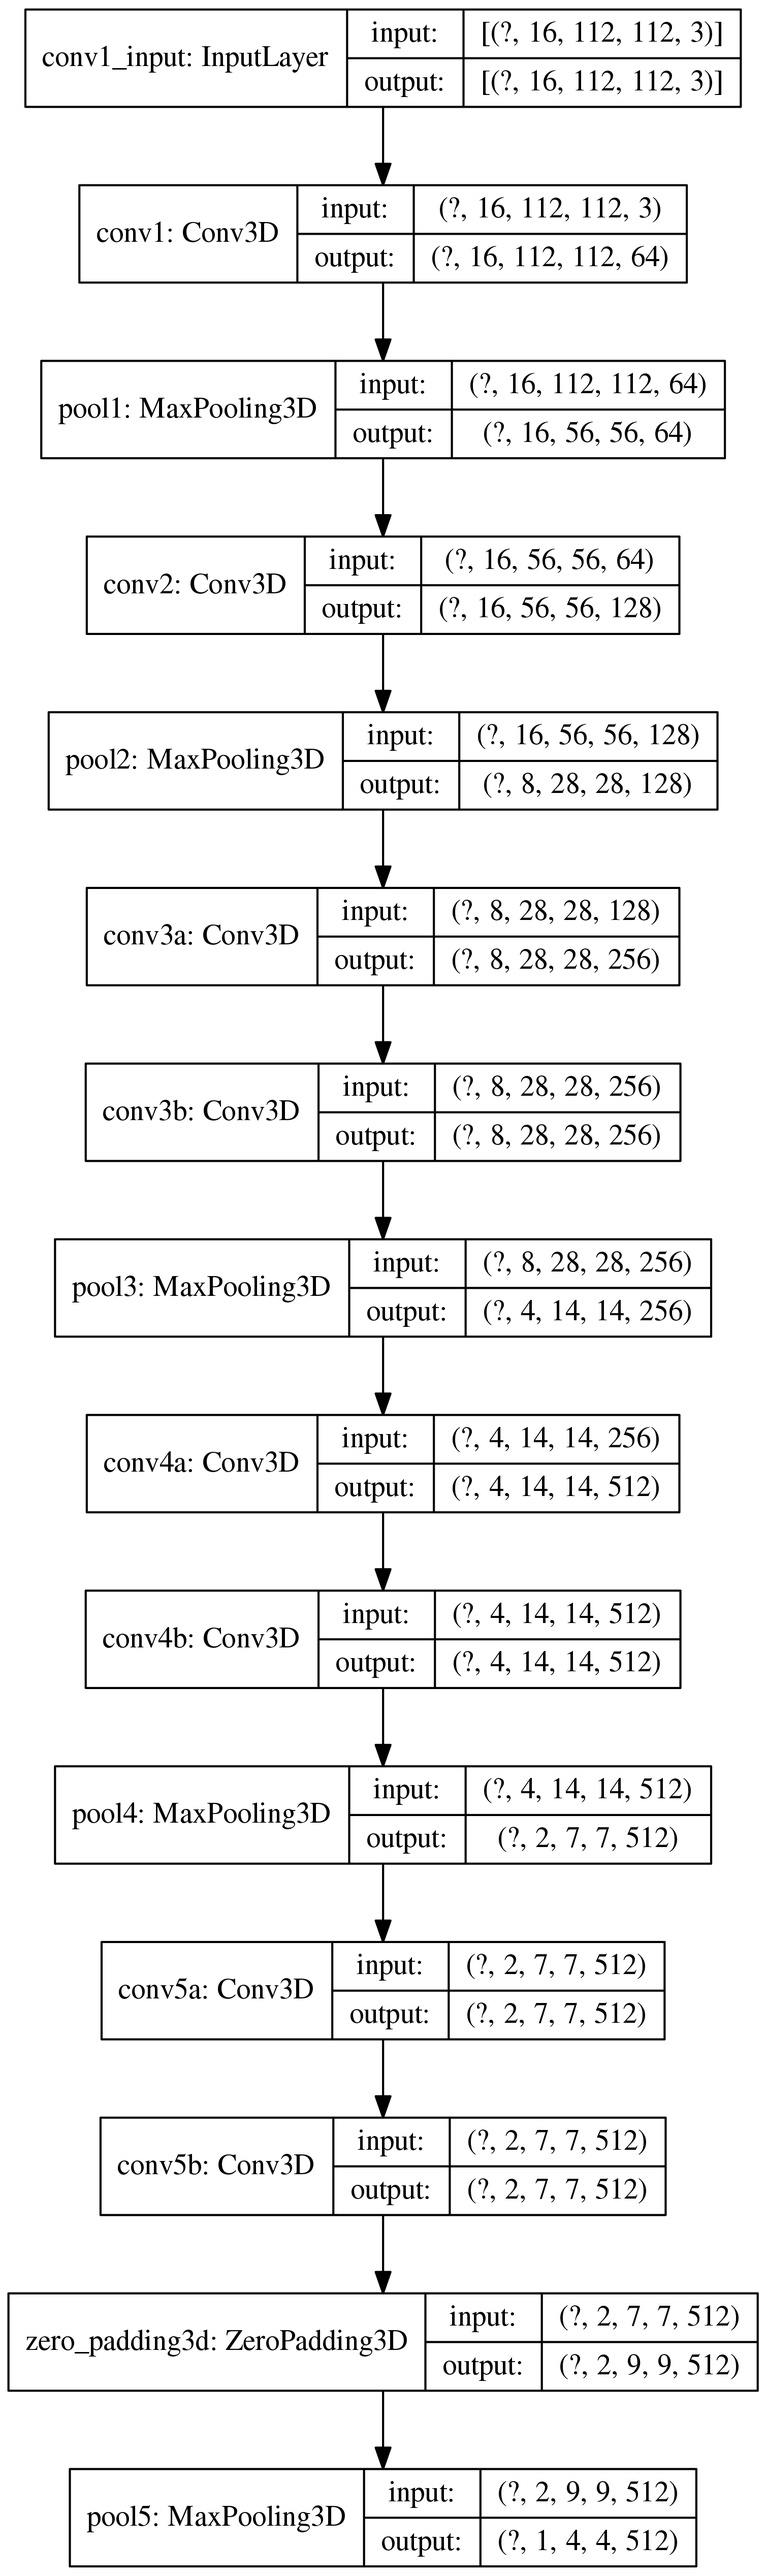
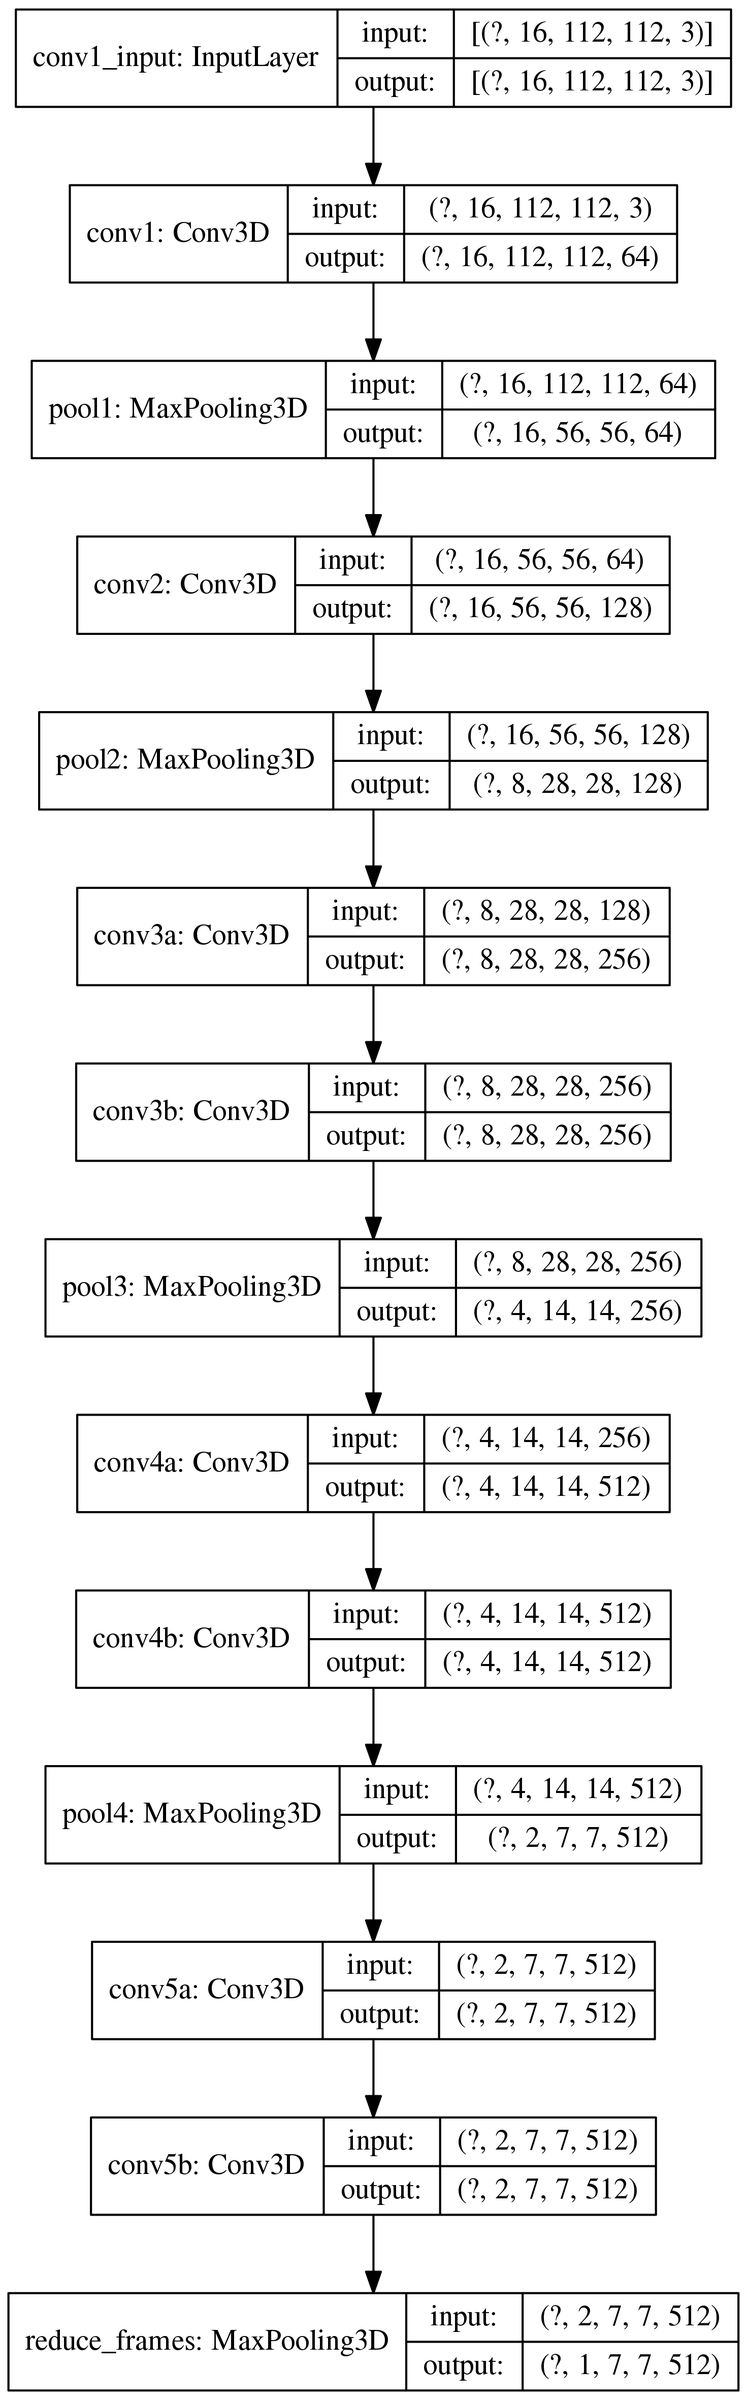
Added more models

Changed region(s): [[0.0, 0.0, 1.0, 1.0]]

diff --git a/anomaly_detector/feature_extractor/featureExtractorVGG16_Block3.py b/anomaly_detector/feature_extractor/featureExtractorVGG16_Block3.py
@@ -1,0 +1,43 @@
+import tensorflow as tf
+from tensorflow.keras.applications.vgg16 import preprocess_input
+
+from featureExtractorBase import FeatureExtractorBase
+
+class FeatureExtractorVGG16_Block3(FeatureExtractorBase):
+    """Feature extractor based on VGG16 at Bock 3 without the last max pooling layer (trained on ImageNet).
+    Generates 56x56x512 feature vectors per image
+    """
+
+    def __init__(self):
+        FeatureExtractorBase.__init__(self)
+
+        self.IMG_SIZE = 224 # All images will be resized to 224x224
+
+        # Create the base model from the pre-trained model MobileNet V2
+        model_full = tf.keras.applications.VGG16(input_shape=(self.IMG_SIZE, self.IMG_SIZE, 3),
+                                                 include_top=False,
+                                                 weights="imagenet")
+        model_full.trainable = False
+
+        self.model = tf.keras.Model(model_full.inputs, model_full.get_layer("block3_conv3").output)   
+        self.model.trainable = False
+    
+    def format_image(self, image):
+        """Resize the images to a fixed input size, and
+        rescale the input channels to a range of [-1, 1].
+        (According to https://www.tensorflow.org/tutorials/images/transfer_learning)
+        """
+        image = tf.cast(image, tf.float32)
+        #       \/ does the same #  image = (image / 127.5) - 1
+        image = preprocess_input(image) # https://github.com/keras-team/keras-applications/blob/master/keras_applications/imagenet_utils.py#L152
+        image = tf.image.resize(image, (self.IMG_SIZE, self.IMG_SIZE))
+        return image
+
+    def extract_batch(self, batch):
+        return self.model(batch)
+
+# Only for tests
+if __name__ == "__main__":
+    extractor = FeatureExtractorVGG16_Block3()
+    extractor.plot_model(extractor.model)
+    extractor.extract_files()

diff --git a/anomaly_detector/feature_extractor/featureExtractorVGG16_Block4.py b/anomaly_detector/feature_extractor/featureExtractorVGG16_Block4.py
@@ -1,0 +1,43 @@
+import tensorflow as tf
+from tensorflow.keras.applications.vgg16 import preprocess_input
+
+from featureExtractorBase import FeatureExtractorBase
+
+class FeatureExtractorVGG16_Block4(FeatureExtractorBase):
+    """Feature extractor based on VGG16 at Bock 4 without the last max pooling layer (trained on ImageNet).
+    Generates 28x28x512 feature vectors per image
+    """
+
+    def __init__(self):
+        FeatureExtractorBase.__init__(self)
+
+        self.IMG_SIZE = 224 # All images will be resized to 224x224
+
+        # Create the base model from the pre-trained model MobileNet V2
+        model_full = tf.keras.applications.VGG16(input_shape=(self.IMG_SIZE, self.IMG_SIZE, 3),
+                                                 include_top=False,
+                                                 weights="imagenet")
+        model_full.trainable = False
+
+        self.model = tf.keras.Model(model_full.inputs, model_full.get_layer("block4_conv3").output)   
+        self.model.trainable = False
+    
+    def format_image(self, image):
+        """Resize the images to a fixed input size, and
+        rescale the input channels to a range of [-1, 1].
+        (According to https://www.tensorflow.org/tutorials/images/transfer_learning)
+        """
+        image = tf.cast(image, tf.float32)
+        #       \/ does the same #  image = (image / 127.5) - 1
+        image = preprocess_input(image) # https://github.com/keras-team/keras-applications/blob/master/keras_applications/imagenet_utils.py#L152
+        image = tf.image.resize(image, (self.IMG_SIZE, self.IMG_SIZE))
+        return image
+
+    def extract_batch(self, batch):
+        return self.model(batch)
+
+# Only for tests
+if __name__ == "__main__":
+    extractor = FeatureExtractorVGG16_Block4()
+    extractor.plot_model(extractor.model)
+    extractor.extract_files()

diff --git a/anomaly_detector/feature_extractor/featureExtractorVGG16.py b/anomaly_detector/feature_extractor/featureExtractorVGG16.py
@@ -1,0 +1,43 @@
+import tensorflow as tf
+from tensorflow.keras.applications.vgg16 import preprocess_input
+
+from featureExtractorBase import FeatureExtractorBase
+
+class FeatureExtractorVGG16(FeatureExtractorBase):
+    """Feature extractor based on VGG16 without the last max pooling layer (trained on ImageNet).
+    Generates 14x14x512 feature vectors per image
+    """
+
+    def __init__(self):
+        FeatureExtractorBase.__init__(self)
+
+        self.IMG_SIZE = 224 # All images will be resized to 224x224
+
+        # Create the base model from the pre-trained model MobileNet V2
+        model_full = tf.keras.applications.VGG16(input_shape=(self.IMG_SIZE, self.IMG_SIZE, 3),
+                                                 include_top=False,
+                                                 weights="imagenet")
+        model_full.trainable = False
+
+        self.model = tf.keras.Model(model_full.inputs, model_full.get_layer("block5_conv3").output)   
+        self.model.trainable = False
+    
+    def format_image(self, image):
+        """Resize the images to a fixed input size, and
+        rescale the input channels to a range of [-1, 1].
+        (According to https://www.tensorflow.org/tutorials/images/transfer_learning)
+        """
+        image = tf.cast(image, tf.float32)
+        #       \/ does the same #  image = (image / 127.5) - 1
+        image = preprocess_input(image) # https://github.com/keras-team/keras-applications/blob/master/keras_applications/imagenet_utils.py#L152
+        image = tf.image.resize(image, (self.IMG_SIZE, self.IMG_SIZE))
+        return image
+
+    def extract_batch(self, batch):
+        return self.model(batch)
+
+# Only for tests
+if __name__ == "__main__":
+    extractor = FeatureExtractorVGG16()
+    extractor.plot_model(extractor.model)
+    extractor.extract_files()

diff --git a/anomaly_detector/feature_extractor/__init__.py b/anomaly_detector/feature_extractor/__init__.py
@@ -1,10 +1,21 @@
 from featureExtractorMobileNetV2                import FeatureExtractorMobileNetV2
 from featureExtractorMobileNetV2_Block6         import FeatureExtractorMobileNetV2_Block6
+
 from featureExtractorEfficientNetB0             import FeatureExtractorEfficientNetB0
 from featureExtractorEfficientNetB0_Block10     import FeatureExtractorEfficientNetB0_Block10
+
 from featureExtractorEfficientNetB6             import FeatureExtractorEfficientNetB6
 from featureExtractorEfficientNetB6_Block10     import FeatureExtractorEfficientNetB6_Block10
+
 from featureExtractorResNet50                   import FeatureExtractorResNet50V2
 from featureExtractorResNet50_Block6            import FeatureExtractorResNet50V2_Block6
 from featureExtractorResNet50_LargeImage        import FeatureExtractorResNet50V2_LargeImage
 from featureExtractorResNet50_Block6_LargeImage import FeatureExtractorResNet50V2_Block6_LargeImage
+
+from featureExtractorVGG16                      import FeatureExtractorVGG16
+from featureExtractorVGG16_Block4               import FeatureExtractorVGG16_Block4
+from featureExtractorVGG16_Block3               import FeatureExtractorVGG16_Block3
+
+from featureExtractorC3D                        import FeatureExtractorC3D
+from featureExtractorC3D_Block4                 import FeatureExtractorC3D_Block4
+from featureExtractorC3D_Block3                 import FeatureExtractorC3D_Block3

diff --git a/anomaly_detector/feature_extractor/featureExtractorBase.py b/anomaly_detector/feature_extractor/featureExtractorBase.py
@@ -87,16 +87,23 @@ class FeatureExtractorBase(object):
         # Load dataset
         if files[0].endswith(".tfrecord"):
             dataset = utils.load_tfrecords(files, preprocess_function=self.format_image)
+
+            # Call internal transformations (eg. temporal windowing for 3D networks)
+            dataset = self.__transform_dataset__(dataset)
+
+            # Get number of examples in dataset
+            total = sum(1 for record in tqdm(dataset, desc="Loading dataset"))
+
         elif files[0].endswith(".jpg"):
             dataset = utils.load_jpgs(files, preprocess_function=self.format_image)
+            
+            # Call internal transformations (eg. temporal windowing for 3D networks)
+            dataset = self.__transform_dataset__(dataset)
+            
+            total = len(files)
         else:
             raise ValueError("Supported file types are *.tfrecord and *.jpg")
         
-        # Call internal transformations (eg. temporal windowing for 3D networks)
-        dataset = self.__transform_dataset__(dataset)
-
-        # Get number of examples in dataset
-        total = sum(1 for record in tqdm(dataset, desc="Loading dataset"))
 
         # Get batches (seems to be better performance wise than extracting individual images)
         if batch_size > 0:

diff --git a/anomaly_detector/feature_extractor/featureExtractorC3D.py b/anomaly_detector/feature_extractor/featureExtractorC3D.py
@@ -8,9 +8,10 @@ from Models.C3D.sports1M_utils import preprocess_input
 
 class FeatureExtractorC3D(FeatureExtractorBase):
     """Feature extractor based on C3D (trained on sports1M).
-    Output layer: pool5
-    Generates 4x4x512 feature vectors per temporal image batch
+    Output layer: conv5b + MaxPooling3D to reduce frames
+    Generates 7x7x512 feature vectors per temporal image batch
     """
+    __layer__ = "conv5b"
 
     def __init__(self):
         FeatureExtractorBase.__init__(self)
@@ -23,7 +24,11 @@ class FeatureExtractorC3D(FeatureExtractorBase):
         model_full = C3D(weights='sports1M')
         model_full.trainable = False
 
-        self.model = tf.keras.Model(model_full.inputs, model_full.get_layer("pool5").output)   
+        output = model_full.get_layer(self.__layer__).output
+        pool_size = (output.shape[1], 1, 1)
+        output = tf.keras.layers.MaxPooling3D(pool_size=pool_size, strides=pool_size, padding='valid', name='reduce_frames')(output)
+
+        self.model = tf.keras.Model(model_full.inputs, output)
         self.model.trainable = False
     
     def __transform_dataset__(self, dataset):

diff --git a/anomaly_detector/feature_extractor/featureExtractorC3D_Block3.py b/anomaly_detector/feature_extractor/featureExtractorC3D_Block3.py
@@ -1,0 +1,14 @@
+from feature_extractor import FeatureExtractorC3D
+
+class FeatureExtractorC3D_Block3(FeatureExtractorC3D):
+    """Feature extractor based on C3D (trained on sports1M).
+    Output layer: conv3b + MaxPooling3D to reduce frames
+    Generates 28x28x256 feature vectors per temporal image batch
+    """
+    __layer__ = "conv3b"
+
+# Only for tests
+if __name__ == "__main__":
+    extractor = FeatureExtractorC3D_Block3()
+    extractor.plot_model(extractor.model)
+    extractor.extract_files()

diff --git a/anomaly_detector/feature_extractor/featureExtractorC3D_Block4.py b/anomaly_detector/feature_extractor/featureExtractorC3D_Block4.py
@@ -1,0 +1,14 @@
+from feature_extractor import FeatureExtractorC3D
+
+class FeatureExtractorC3D_Block4(FeatureExtractorC3D):
+    """Feature extractor based on C3D (trained on sports1M).
+    Output layer: conv4b + MaxPooling3D to reduce frames
+    Generates 14x14x512 feature vectors per temporal image batch
+    """
+    __layer__ = "conv4b"
+
+# Only for tests
+if __name__ == "__main__":
+    extractor = FeatureExtractorC3D_Block4()
+    extractor.plot_model(extractor.model)
+    extractor.extract_files()
